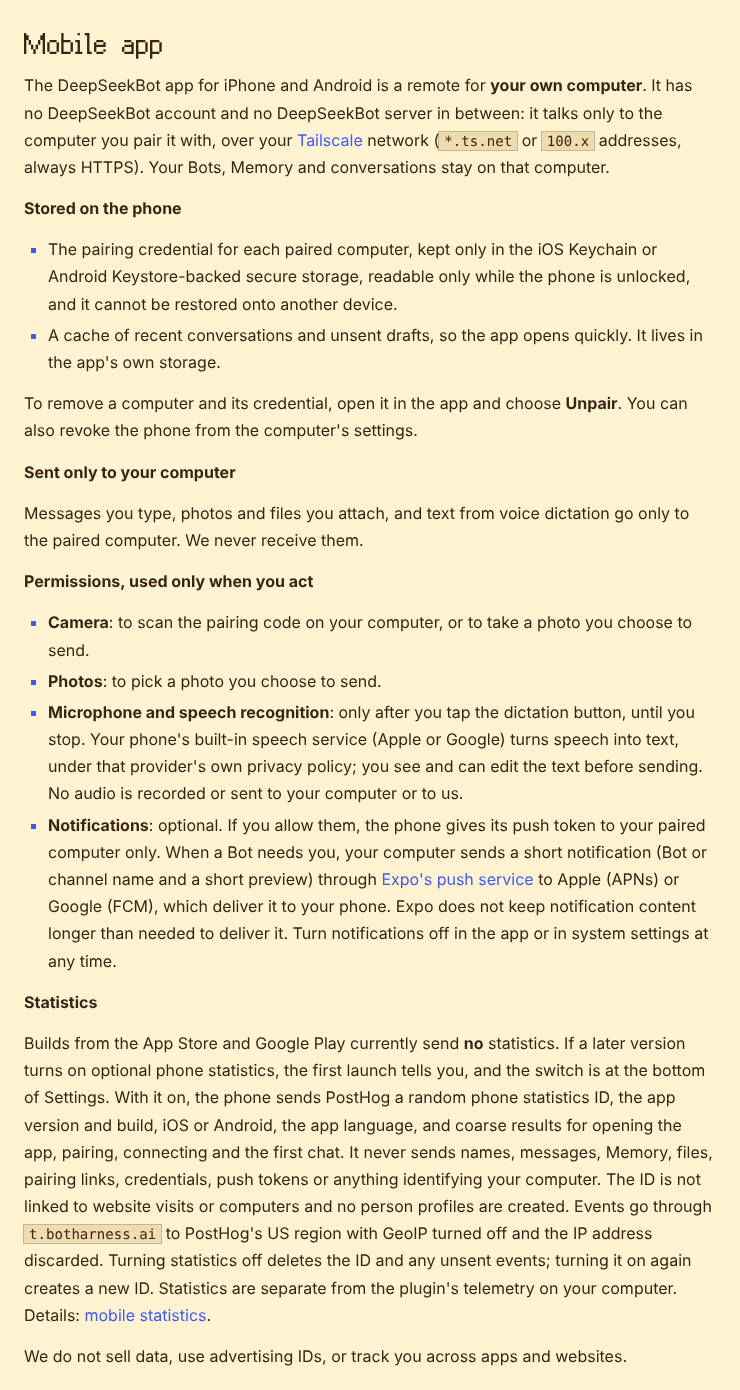
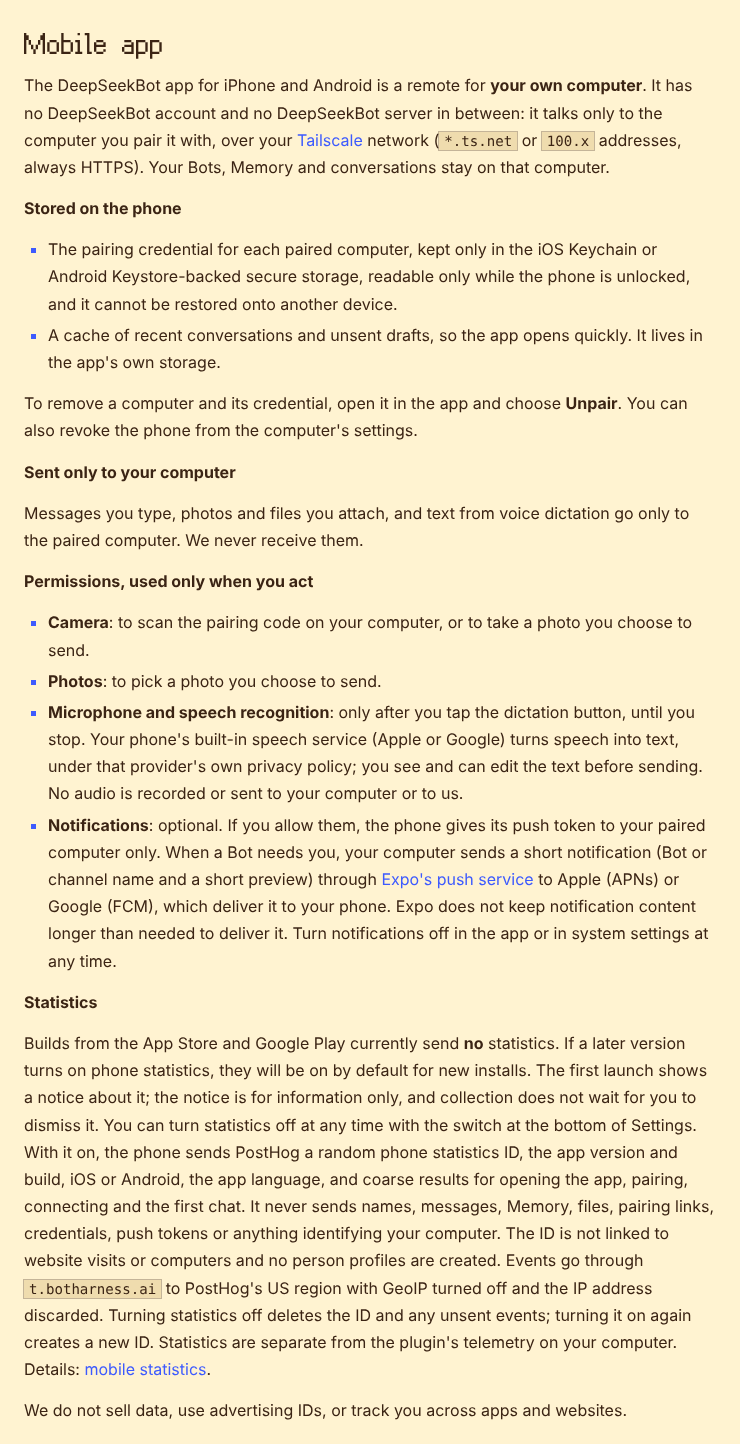
docs(privacy): state that phone statistics are default-on
Matches docs/mobile-statistics.md: on by default for new installs, the
first-launch notice is informational, and the Settings switch turns it
off. Refreshes the PR screenshots.

Claude-Session: https://claude.ai/code/session_01U8Hj8xSp4h8ujHLgj3xE2z

Changed region(s): [[0.0311, 0.0309, 0.9635, 0.9899], [0.4973, 0.959, 0.5595, 0.9899], [0.4041, 0.959, 0.4351, 0.9899]]

diff --git a/content/privacy/en.md b/content/privacy/en.md
@@ -55,7 +55,7 @@ Messages you type, photos and files you attach, and text from voice dictation go
 
 **Statistics**
 
-Builds from the App Store and Google Play currently send **no** statistics. If a later version turns on optional phone statistics, the first launch tells you, and the switch is at the bottom of Settings. With it on, the phone sends PostHog a random phone statistics ID, the app version and build, iOS or Android, the app language, and coarse results for opening the app, pairing, connecting and the first chat. It never sends names, messages, Memory, files, pairing links, credentials, push tokens or anything identifying your computer. The ID is not linked to website visits or computers and no person profiles are created. Events go through `t.botharness.ai` to PostHog's US region with GeoIP turned off and the IP address discarded. Turning statistics off deletes the ID and any unsent events; turning it on again creates a new ID. Statistics are separate from the plugin's telemetry on your computer. Details: [mobile statistics](https://github.com/BotHarness/DeepSeekBot/blob/main/docs/mobile-statistics.md).
+Builds from the App Store and Google Play currently send **no** statistics. If a later version turns on phone statistics, they will be on by default for new installs. The first launch shows a notice about it; the notice is for information only, and collection does not wait for you to dismiss it. You can turn statistics off at any time with the switch at the bottom of Settings. With it on, the phone sends PostHog a random phone statistics ID, the app version and build, iOS or Android, the app language, and coarse results for opening the app, pairing, connecting and the first chat. It never sends names, messages, Memory, files, pairing links, credentials, push tokens or anything identifying your computer. The ID is not linked to website visits or computers and no person profiles are created. Events go through `t.botharness.ai` to PostHog's US region with GeoIP turned off and the IP address discarded. Turning statistics off deletes the ID and any unsent events; turning it on again creates a new ID. Statistics are separate from the plugin's telemetry on your computer. Details: [mobile statistics](https://github.com/BotHarness/DeepSeekBot/blob/main/docs/mobile-statistics.md).
 
 We do not sell data, use advertising IDs, or track you across apps and websites.
 
